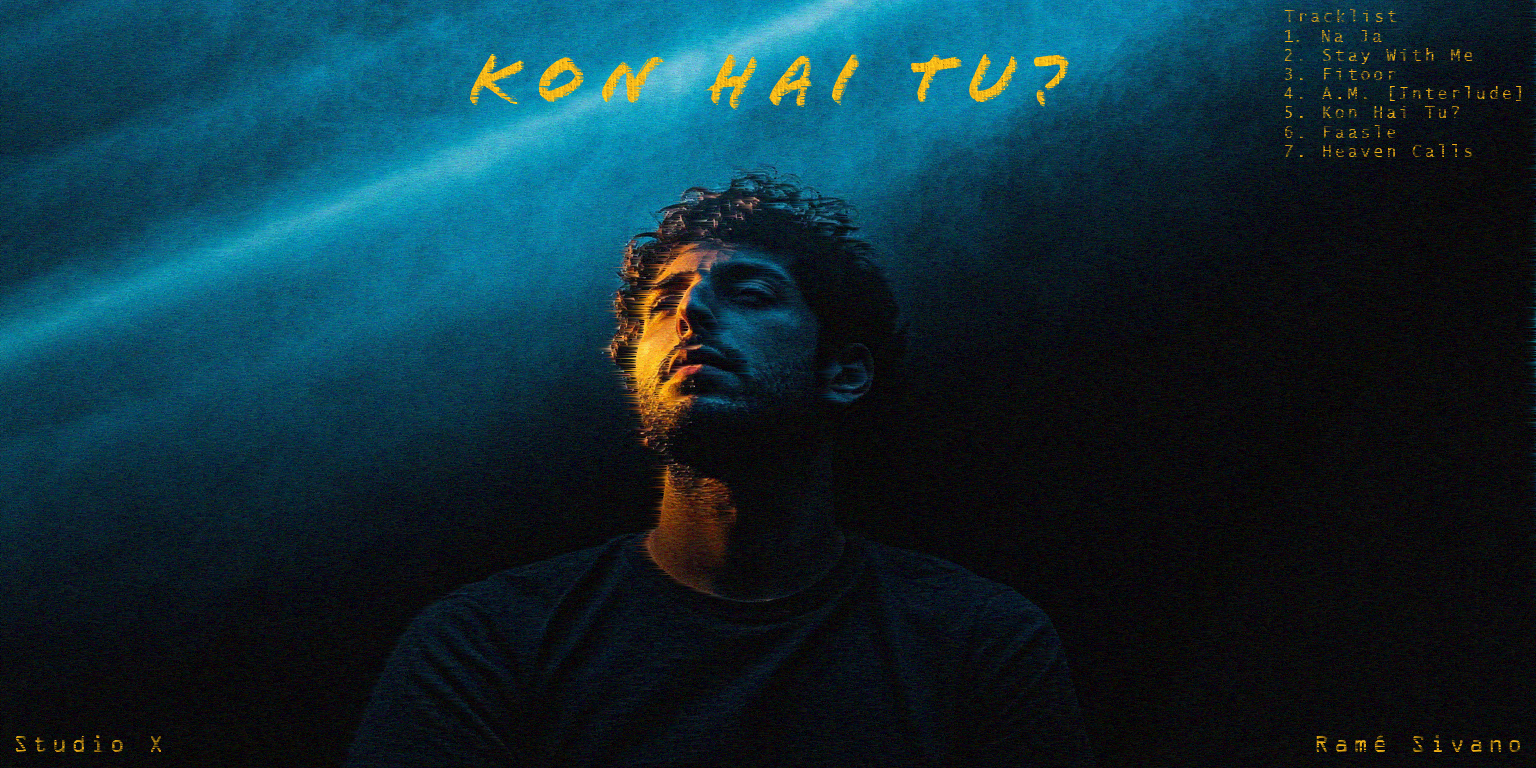
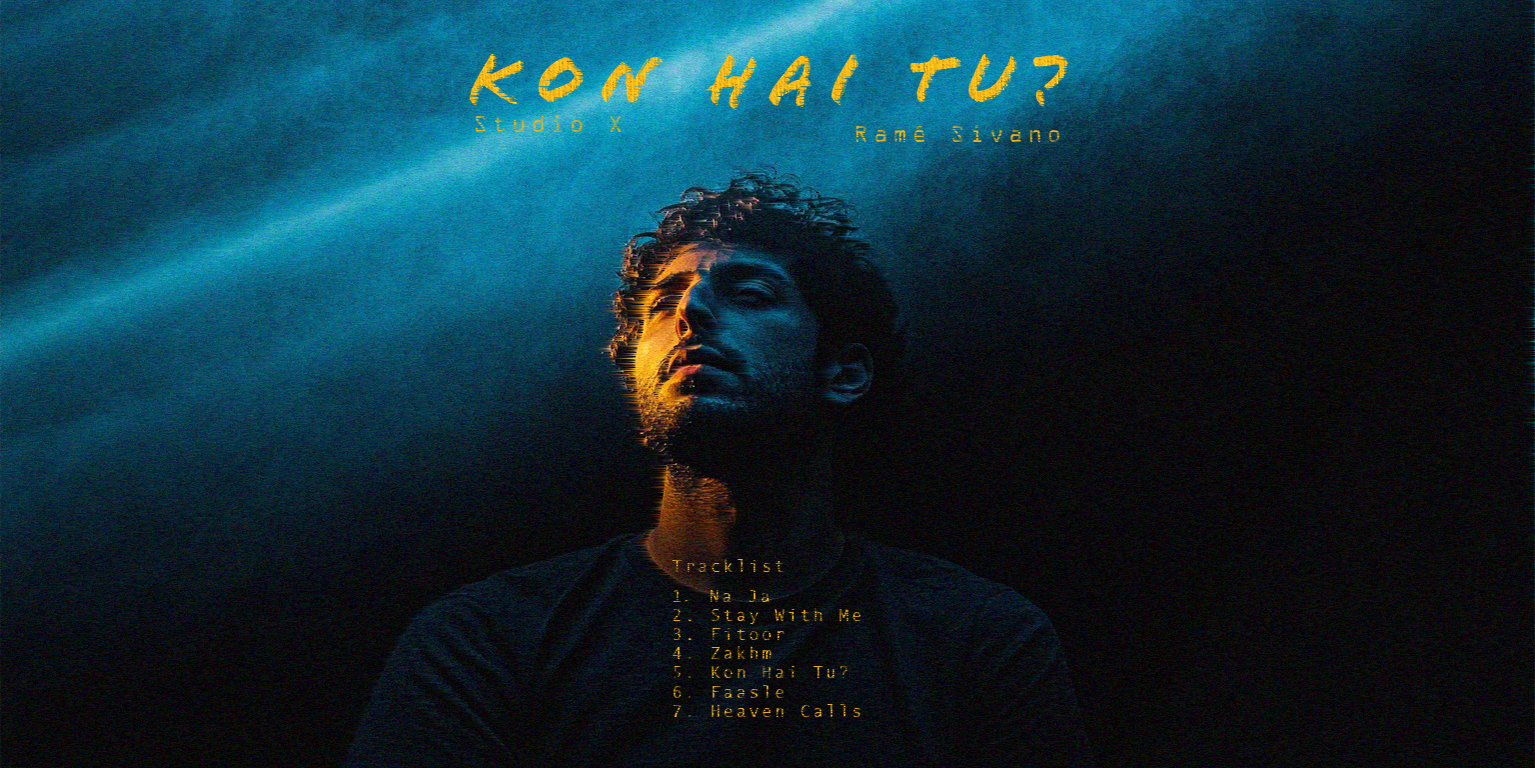
update album page

diff --git a/src/app/album/page.tsx b/src/app/album/page.tsx
@@ -1,3 +1,5 @@
+'use client'
+
 import Image from 'next/image'
 import { Header } from '@/components/Header'
 import { Playfair_Display } from 'next/font/google'
@@ -21,8 +23,19 @@ export default function AlbumPage() {
         <main className="h-[calc(100vh-4rem)]">
           {/* Album Container */}
           <div className="relative h-full">
-            {/* Album Poster */}
-            <div className="relative h-full w-full">
+            {/* Mobile Poster (hidden on md and larger screens) */}
+            <div className="relative h-full w-full md:hidden">
+              <Image
+                src="/album-poster-mobile.jpg"
+                alt="Kon Hai Tu Album Cover"
+                fill
+                priority
+                className="object-contain"
+              />
+            </div>
+
+            {/* Desktop Poster (hidden on smaller screens) */}
+            <div className="relative h-full w-full hidden md:block">
               <Image
                 src="/album-poster-web.jpg"
                 alt="Kon Hai Tu Album Cover"
@@ -30,10 +43,10 @@ export default function AlbumPage() {
                 priority
                 className="object-contain"
               />
-              
-              {/* Permanent bottom gradient for blending */}
-              <div className="absolute inset-x-0 bottom-0 h-12 bg-gradient-to-t from-black to-transparent" />
             </div>
+              
+            {/* Permanent bottom gradient for blending */}
+            <div className="absolute inset-x-0 bottom-0 h-12 bg-gradient-to-t from-black to-transparent" />
           </div>
         </main>
         
